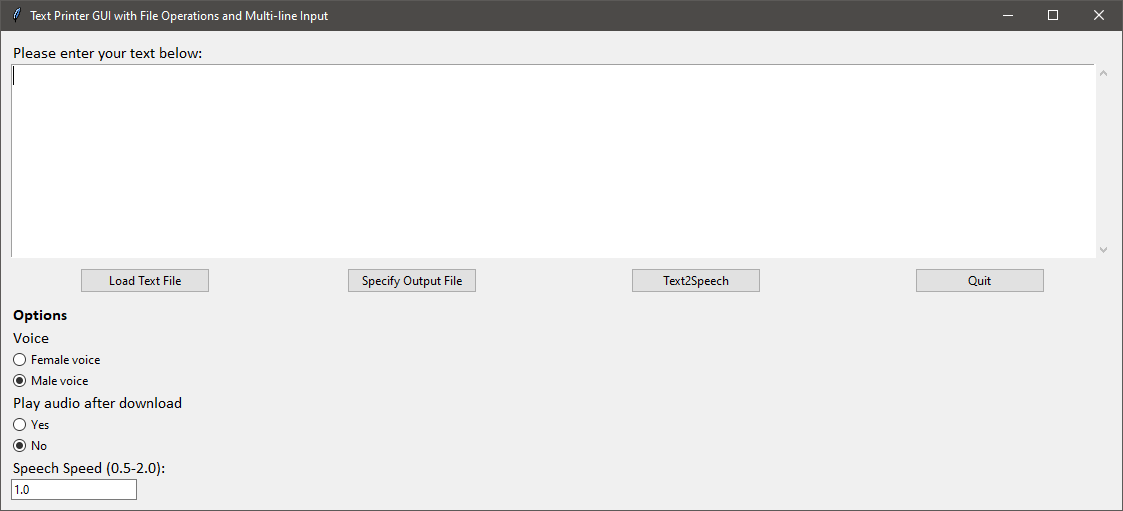
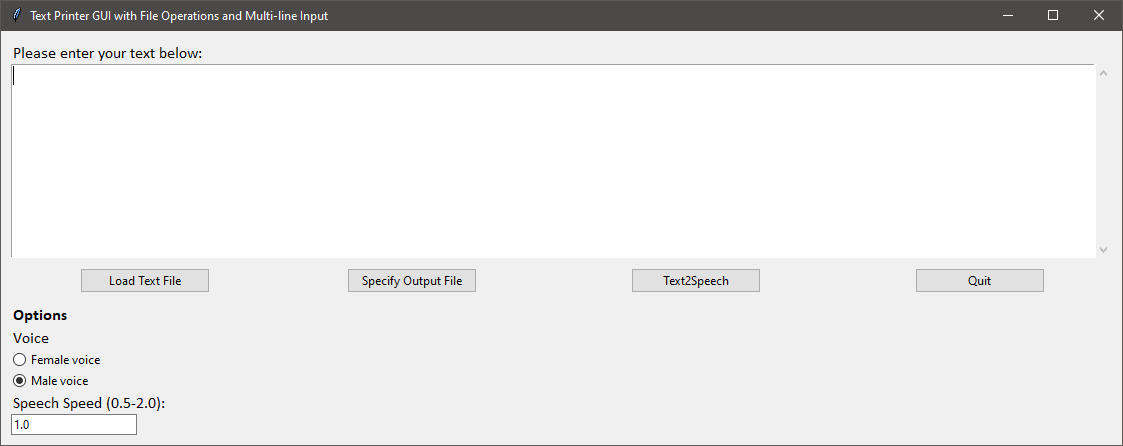
edits

diff --git a/TalkingVid_AI.py b/TalkingVid_AI.py
@@ -5,6 +5,7 @@ the OpenAI tts-1 model to convert text to speech. An audio stream is returned an
 __author__ = "Carsten Pathe"
 __license__ = "GNU General Public License v3.0"
 
+
 import tkinter as tk
 from tkinter import ttk
 from tkinter import filedialog, messagebox, scrolledtext
@@ -35,7 +36,7 @@ class Text2SpeechGUI:
         label.grid(row=0, column=0, columnspan=2, sticky=tk.W)
 
         # Multi-line text input field with word wrap enabled
-        self.text_input = scrolledtext.ScrolledText(frame, wrap=tk.WORD, height=10, width=120, font=('Cambria',14))
+        self.text_input = scrolledtext.ScrolledText(frame, wrap=tk.WORD, height=10, width=120, font=('Cambria',12))
         self.text_input.grid(row=1, column=0, columnspan=4, sticky=(tk.W, tk.E))
         self.text_input.focus()
 
@@ -44,7 +45,7 @@ class Text2SpeechGUI:
         load_text_button.grid(row=2, column=0, padx=10, pady=10)
 
         # Specify output file button
-        save_file_button = ttk.Button(frame, text="Set Output File", command=self.on_save_file_clicked, width=20)
+        save_file_button = ttk.Button(frame, text="Specify Output File", command=self.on_save_file_clicked, width=20)
         save_file_button.grid(row=2, column=1, padx=10, pady=10)
 
         # txt_2_speech button
@@ -56,7 +57,7 @@ class Text2SpeechGUI:
         quit_button.grid(row=2, column=3, padx=10, pady=10)
 
         # Label for descriptive text
-        label = ttk.Label(frame, text="Options:", font=('Calibri', 12, 'bold'))
+        label = ttk.Label(frame, text="Options", font=('Calibri', 12, 'bold'))
         label.grid(row=3, column=0, columnspan=4, sticky=tk.W)
 
         label = ttk.Label(frame, text="Voice", font=('Calibri', 12))
@@ -69,10 +70,10 @@ class Text2SpeechGUI:
         rButton_femaleVoice.grid(row=5, column=0, padx=0, pady=0, sticky='w')
 
         rButton_maleVoice = ttk.Radiobutton(frame, text="Male voice   ", variable=self.voice, value="onyx")
-        rButton_maleVoice.grid(row=6, column=0, padx=0, pady=0, sticky='w')
+        rButton_maleVoice.grid(row=6, column=0, padx=0, pady=0, sticky='w')    
 
         # Entry for sound speed
-        ttk.Label(frame, text="Speed (0.5-2.0):", font=('Calibri', 12)).grid(row=10, column=0, padx=0, pady=0, sticky=tk.W)
+        ttk.Label(frame, text="Speech Speed (0.5-2.0):", font=('Calibri', 12)).grid(row=10, column=0, padx=0, pady=0, sticky=tk.W)
         self.speed_entry = ttk.Entry(frame)
         self.speed_entry.grid(row=11, column=0, padx=0, pady=0, sticky=tk.W)
         self.speed_entry.insert(0, "1.0")  # Default speed
@@ -122,7 +123,7 @@ class Text2SpeechGUI:
     # Thread "process_text" (when button "txt_2_speech" was clicked)
     def process_text(self):
 
-        # Before calling the TTS API
+        # Get settings for voice speed
         try:
             speed = float(self.speed_entry.get())  # Assumed validation has already happened
         except ValueError:
